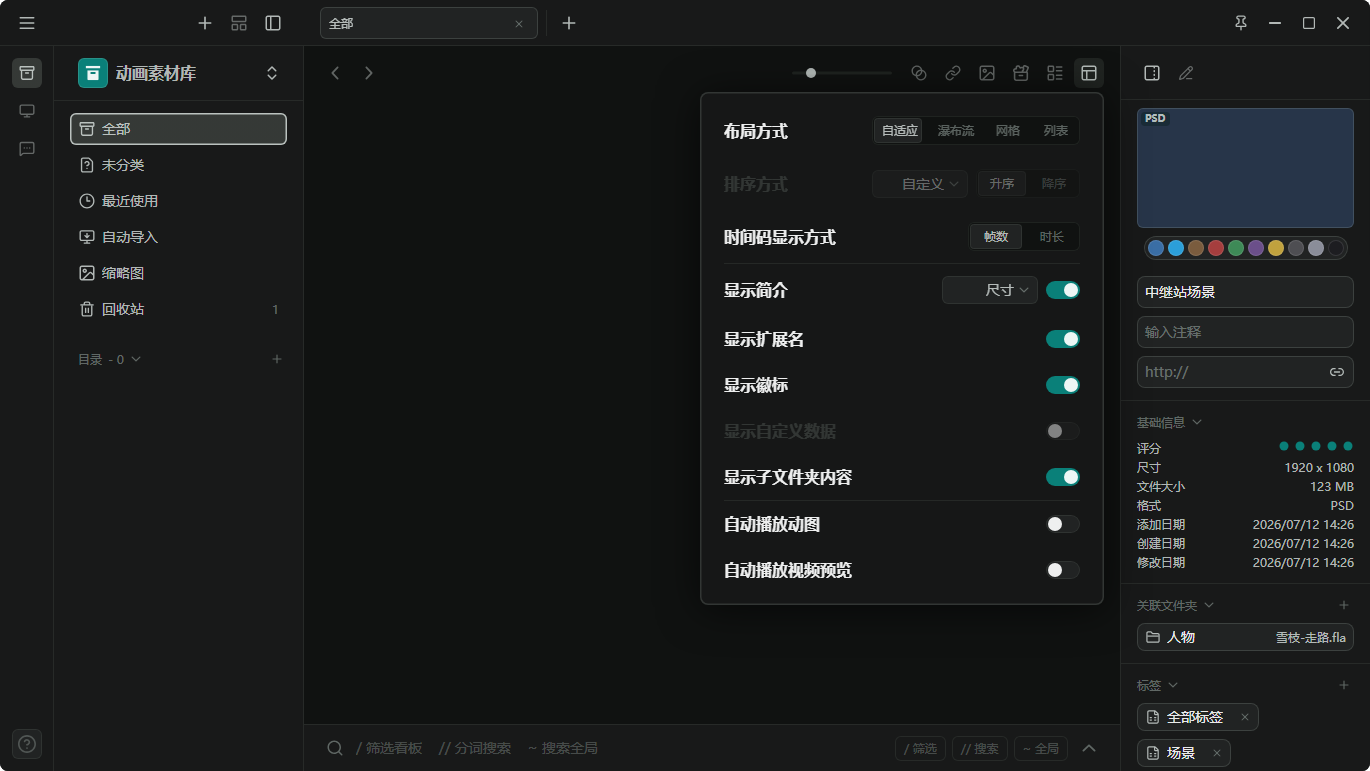
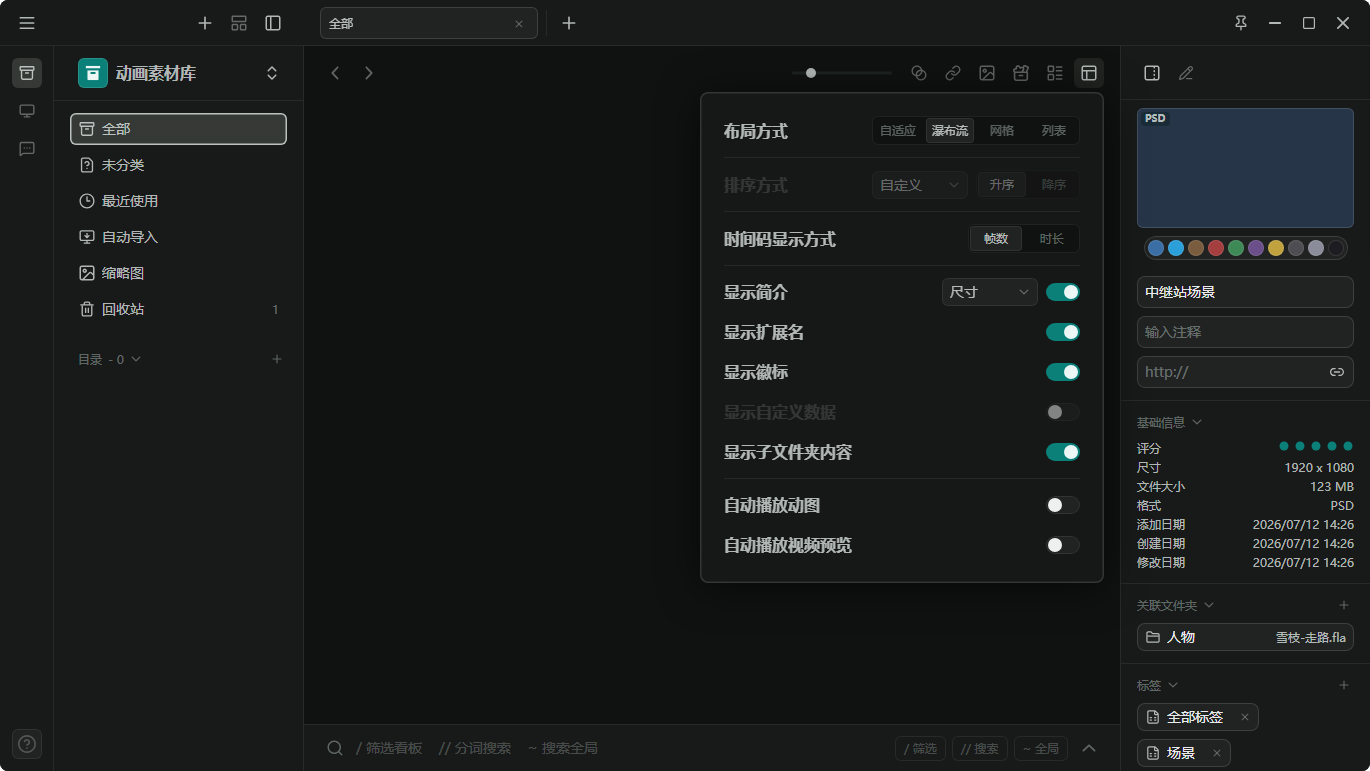
1.4走查：28面板分隔线间距按稿重构(53行带线/开关组28高gap12)/segmented选中块错位根治(min-width:0)+踩坑029(vite转换缓存陈旧)

diff --git a/src/components/ViewOptionsMenu.vue b/src/components/ViewOptionsMenu.vue
@@ -88,32 +88,28 @@ function closeAll(): void {
       :trigger="trigger ?? null"
       @close="closeAll"
     >
-      <!-- 组 1：布局 / 排序 / 时间码 -->
-      <div class="group">
-        <div class="row">
-          <span class="label">布局方式</span>
-          <AppSegmented v-model="ui.layoutMode" :options="layouts" small style="width: 208px" />
-        </div>
-        <!-- 排序方式（占位禁用——排序业务 3.5 接） -->
-        <div class="row disabled">
-          <span class="label">排序方式</span>
-          <span class="ctrl">
-            <button class="picker" disabled>
-              <span class="val">{{ ui.sortBy || "自定义" }}</span>
-              <AppIcon name="tree-expand-arrow" :size="12" class="down" />
-            </button>
-            <AppSegmented v-model="sortOrderModel" :options="sortOrders" small style="width: 104px" class="seg-disabled" />
-          </span>
-        </div>
-        <div class="row">
-          <span class="label">时间码显示方式</span>
-          <AppSegmented v-model="ui.timeDisplay" :options="timeDisplays" small style="width: 112px" />
-        </div>
+      <!-- 组 1：布局 / 排序 / 时间码（稿：三行各 53 高 padding 12 0 + 行 border-bottom 暗-悬停） -->
+      <div class="row tall">
+        <span class="label">布局方式</span>
+        <AppSegmented v-model="ui.layoutMode" :options="layouts" small style="width: 208px" />
+      </div>
+      <!-- 排序方式（占位禁用——排序业务 3.5 接） -->
+      <div class="row tall disabled">
+        <span class="label">排序方式</span>
+        <span class="ctrl">
+          <button class="picker" disabled>
+            <span class="val">{{ ui.sortBy || "自定义" }}</span>
+            <AppIcon name="tree-expand-arrow" :size="12" class="down" />
+          </button>
+          <AppSegmented v-model="sortOrderModel" :options="sortOrders" small style="width: 104px" class="seg-disabled" />
+        </span>
+      </div>
+      <div class="row tall">
+        <span class="label">时间码显示方式</span>
+        <AppSegmented v-model="ui.timeDisplay" :options="timeDisplays" small style="width: 112px" />
       </div>
 
-      <div class="group-line" />
-
-      <!-- 组 2：显示开关 -->
+      <!-- 组 2：显示开关（稿：组容器 padding 12 0 / gap 12 / 行高 28，行间无线，组底 border-bottom） -->
       <div class="group">
         <div class="row">
           <span class="label">显示简介</span>
@@ -144,10 +140,8 @@ function closeAll(): void {
         </div>
       </div>
 
-      <div class="group-line" />
-
-      <!-- 组 3：自动播放 -->
-      <div class="group">
+      <!-- 组 3：自动播放（稿：组容器 padding 12 0 / gap 12 / 行高 28，无底线） -->
+      <div class="group last">
         <div class="row">
           <span class="label">自动播放动图</span>
           <AppSwitch v-model="ui.autoPlayGif" />
@@ -174,24 +168,34 @@ function closeAll(): void {
 </template>
 
 <style scoped>
-/* 组（28 稿）：行高 53（padding 12 0），行间无分隔；组间 1px 暗-悬停线（内容宽满） */
-.group {
-  display: flex;
-  flex-direction: column;
-}
-.group-line {
-  flex: none;
-  height: 1px;
-  background: var(--line-hover);
-}
-/* 行：标题 16/22 700（标题档，28 稿）左置，控件右置 */
-.row {
+/* 行结构（28 稿实测）：组 1 三行 = 独立行容器 53 高（padding 12 0）+ 行 border-bottom 暗-悬停；
+   开关组 = 组容器（padding 12 0 / gap 12 / 行高 28），行间无线，组底 border-bottom；末组无线 */
+.row.tall {
   display: flex;
   align-items: center;
   justify-content: space-between;
   gap: var(--space-8);
   padding: var(--space-12) 0;
+  border-bottom: 1px solid var(--line-hover);
 }
+.group {
+  display: flex;
+  flex-direction: column;
+  gap: var(--space-12);
+  padding: var(--space-12) 0;
+  border-bottom: 1px solid var(--line-hover);
+}
+.group.last {
+  border-bottom: none;
+}
+.group .row {
+  display: flex;
+  align-items: center;
+  justify-content: space-between;
+  gap: var(--space-8);
+  height: 28px;
+}
+/* 行标题：16/22 700 标题档（28 稿），常态色 */
 .label {
   font-size: var(--text-title-size);
   line-height: var(--text-title-line);

diff --git a/src/components/AppSegmented.vue b/src/components/AppSegmented.vue
@@ -62,6 +62,8 @@ const thumbStyle = computed(() => ({
 .item {
   position: relative;
   flex: 1;
+  min-width: 0; /* 允许缩到 min-content 以下（1.4 走查：nowrap 文字把 item 撑到 52 > 均分 48，
+                   容器溢出且 thumb 仍按公式 48 计算 → 选中块与文字错位，2026-08-11 CDP 实测定位） */
   display: flex;
   align-items: center;
   justify-content: center;

diff --git a/tools/cdp-viewoptions-probe.py b/tools/cdp-viewoptions-probe.py
@@ -125,13 +125,35 @@ async def main():
             print("汉堡菜单:", await ev("document.querySelector('.app-menu')?.textContent?.replace(/\s+/g, ' ').slice(0, 80)"))
             print("汉堡菜单宽:", await ev("document.querySelector('.app-menu')?.style.width"))
 
-            menus = await ev("""
-              [...document.querySelectorAll('.app-menu')].map((m) => ({
-                text: m.textContent.replace(/\s+/g, ' ').slice(0, 90),
-                width: m.style.width,
-              }))
+            # 点击"瀑布流"（布局方式 segmented 第 2 项），等滑动动画结束，量 thumb 与 item 对齐
+            await ev("""
+              (() => {
+                const seg = [...document.querySelectorAll('.app-menu .app-seg')][0];
+                const items = seg.querySelectorAll('.item');
+                items[1].click();
+                return true;
+              })()
             """)
-            print("菜单元素:", json.dumps(menus, ensure_ascii=False))
+            await asyncio.sleep(0.6)
+            align = await ev("""
+              (() => {
+                const seg = [...document.querySelectorAll('.app-menu .app-seg')][0];
+                const thumb = seg.querySelector('.thumb').getBoundingClientRect();
+                const item = seg.querySelectorAll('.item')[1].getBoundingClientRect();
+                const segR = seg.getBoundingClientRect();
+                const cs = getComputedStyle(seg.querySelectorAll('.item')[1]);
+                const scs = getComputedStyle(seg);
+                return {
+                  segWidth: segR.width, segPadding: scs.padding, segGap: scs.gap,
+                  thumb: { left: thumb.left, width: thumb.width },
+                  item: { left: item.left, width: item.width },
+                  dx: Math.round((thumb.left - item.left) * 10) / 10,
+                  dw: Math.round((thumb.width - item.width) * 10) / 10,
+                  minWidth: cs.minWidth, flexBasis: cs.flexBasis, shrink: cs.flexShrink, padding: cs.padding,
+                };
+              })()
+            """)
+            print("对齐测量:", json.dumps(align, ensure_ascii=False))
             shot = await send(ws, "Page.captureScreenshot", {"format": "png"}, session=sess)
             import base64 as b64
             open("E:/01_Projects/03_Software-dev/AniKit/tools/style-preview/view-options-cdp.png", "wb").write(b64.b64decode(shot["result"]["data"]))

diff --git a/docs/04_开发日志/2026-08-11.md b/docs/04_开发日志/2026-08-11.md
@@ -16,3 +16,4 @@
 - **回收站 item 右键真根因（2026-08-11 用户截图箭头指正）**：用户指的"回收站 item"是**侧栏快速访问列表的"回收站"项**——我此前三轮都修在回收站视口卡片上（视口卡片/空白菜单本身正常）。快速访问六项本就无右键（1.2 摸底即记录），13 稿触发位置就是该 item。修复 = LibraryView 快速访问 TreeItem 挂 contextmenu：仅回收站项出 recycleBlankSpec（还原全部文件 / 清空回收站，宽 148），其余项无右键。CDP 探针实证（cdp-quick-recycle-probe.py：右键侧栏回收站项 → .app-menu 弹出，两项内容/宽度/位置正确）。教训：跨轮次反馈先核对"用户指的具体元素"再动手。tsc / build 全绿。
 - **1.3 二轮：汉堡菜单（14）+ 切换资源库（08）落地（2026-08-11 用户口径）**：**汉堡**（宽 220，一级无图标）——资源库 ▸ = 08 内容复用（二级 300）；文件 ▸ = 新增子集（导入本地文件/文件夹 + 新建文档组动态显隐，二级 213，文档组抽 `newDocGroupEntries` 与 07 共用）；查找 ▸ = 扫描重复文件/扫描链接（占位）；偏好设置 ctrl+, 与帮助 ▸ 占位（用户：先不管）；**退出 = 完全结束进程**（新后端命令 `exit_app` = app.exit(0)，快捷键标注 alt+F4）。**切换资源库**（宽 300）——切换储存空间 ▸/合并资源库/工作空间 ▸/清除缓存 占位（阶段九/2.1）；库列表动态生成（`libraryOps.loadLibraries` 最近列表 + get_current_library 并行，checkable 勾 = 当前）；点库切换 = `libraryOps.switchLibrary`（open_library → **tabs.closeAllTabs 布局重置**（旧库 viewKey 全失效）→ content.refresh → 成功 toast）；新建资源库 = 打开 LibrarySetupModal（共享态 `librarySetupState`，**模态加 closable**：有库时点遮罩可关，启动强制场景不变；done 后同样 tabs 重置）。挂载：SidebarLeft 汉堡钮/切换资源库钮点亮（toggle 模式同新增按钮，开菜单前异步加载库列表）。CDP 探针实证（cdp-hamburger-probe.py）：汉堡 220 六项齐全、资源库二级 300 含动态库列表两条 + 当前勾、库 item 抓手与删除×未做（记 09 待办）。tsc / build / cargo build 全绿。
 - **1.4 查看方式落地（28_展开菜单 稿，2026-08-11；用户定：二级面板随业务再做，卡片缩放已有）**：`ViewOptionsMenu` 全量重写为面板式（旧 03_UI/05 稿 picker 行模式作废）——宽 404 / padding 12 24 / 行高 53 / 行标题 16/22 700 标题档；**布局方式** AppSegmented 四项点亮（稿 208 定宽 small 档 12px）；**排序方式**占位禁用行（picker + 升/降 segmented 全灰不响应，业务 3.5）；**时间码显示方式** 帧数/时长 segmented 点亮（播放条/悬停胶囊/笔记同值联动）；**显示简介** 下拉（briefMode 内容）+ 开关（新字段 `ui.showBrief`，卡片简介行与名称 tip 同步消费）；**显示扩展名**（新字段 `ui.showExt`：卡片/列表行名称关 = 只显词干，AssetCard/ListRowCard 同口径）；**显示徽标**（格式角标显隐：旧 `showExtBadge` 字段废除改 `showBadge`，PERSIST_KEYS 同步换）；**显示自定义数据**占位（AppSwitch 新增 disabled 形态，6.1）；**显示子文件夹内容**（showSubfolders 已接）与**自动播放动图/视频预览**（autoPlayGif/Video 5.3 已接）点亮；稿无"查看范围/分组方式"行——旧行移除（字段保留）。AppSegmented `.item` 补 `white-space: nowrap`（"自适应"三字在 48 宽稿值内换行根因）；picker 箭头 chevron-small（向上）改 tree-expand-arrow（▾ 向下贴稿）。CDP 探针截图自验（cdp-viewoptions-probe.py + view-options-cdp.png）：404 面板全行呈现与 28 稿一致。tsc / build 全绿。
+- **28 面板走查两修（2026-08-11 用户反馈）**：① **分隔线与间距按稿重构**——细读 28 稿 CSS 后重排行结构：组 1（布局/排序/时间码）= 独立行容器各 53 高 padding 12 0 + 行 border-bottom 暗-悬停（原组间自绘线错误）；显示开关组 = 组容器 padding 12 0 / **gap 12 / 行高 28**（原 53 高错误），行间无线、组底一条线；自动播放组同构无底线。② **segmented 选中块与文字错位根治**——CDP 实测（thumb 48 vs item 52, dx/dw -4）定位：`.item` 加 nowrap 后 min-content（36 字 + 16 padding = 52）> 均分 48，flex-basis 0% 使 shrink 权重为 0 缩不动，容器溢出且 thumb 仍按公式 48 计算；修 = `.item { min-width: 0 }`，修后实测 dx/dw = 0 完全对齐。**过程坑（踩坑 029）**：vite watch 漏 Edit 工具原子写入 → 转换缓存陈旧（curl `?vue&type=style` 验证服务内容才发现 min-width 根本没被服务），"重启 app 窗口"≠ 重启 vite server——此前回收站右键三轮误诊同源。探针截图复核：分隔线/间距/选中块对齐全部贴稿。tsc / build 全绿。

diff --git a/docs/06_踩坑记录.md b/docs/06_踩坑记录.md
@@ -196,3 +196,10 @@
 - **原因：** 疑为 QWidget 体系 CPU 光栅 + Python 侧绘制委托 + 滚动时同步解码/IO，并非单纯"没走 GPU"。
 - **解法：** 本项目改用 Web 技术栈（浏览器合成器 GPU 加速，createImageBitmap 离线程解码）。
 - **预防：** 已写入 01_开发规范 第 7 条——列表虚拟化、异步解码、布局预计算（用 metadata 宽高）、滚动降级（主色占位）。验收线：10 万资源快拖不掉帧。
+
+## 029 vite 热更新"假生效"：文件已改、页面跑旧码，重启 app 窗口也没用
+
+- **现象：** 2026-08-11 连环菜单走查中，多次"修复已提交但用户端看不到"——typical 路径：Edit 工具改文件 → vite dev 看似正常 → 用户窗口（甚至重启 tauri dev 后）仍是旧代码。
+- **原因：** 两层。① **vite 的 chokidar watch 会漏编辑器的原子写入**（临时文件 + rename，Windows 上偶发）——模块图不失效，`?vue&type=style` 子请求一直返回**转换缓存**；② 用户"重启 dev"往往只重启了 app 窗口（webview 重新加载 URL），**vite server 进程没重启**，陈旧的转换结果继续被服务。验证手法：curl `localhost:5373/src/components/X.vue?vue&type=style...` 看服务内容是否含新改动；`touch` 文件强制失效后立刻出现（本次实测 min-width 案例）。
+- **解法：** 改动后走查前，先 curl 对应模块的 vite 转换结果确认新代码已被服务；没有就 `touch` 文件或重启 vite server 进程（不是只重启 app 窗口）。
+- **预防：** 同一问题的早期形态曾误判为"HMR websocket 断开"（回收站右键三轮误诊原因之一）——以后"用户看不到修复"先查 vite 服务的实际内容，再怀疑前端逻辑。
